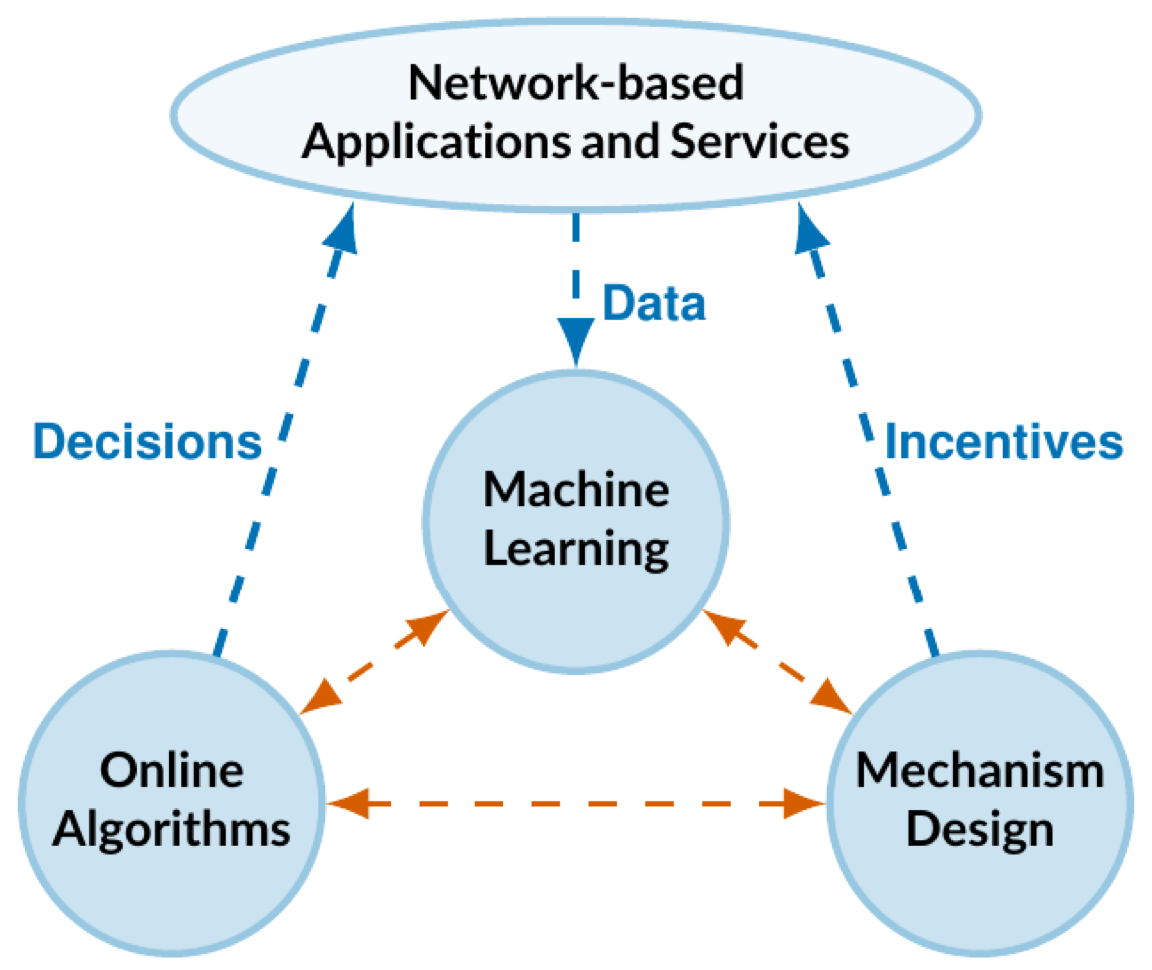
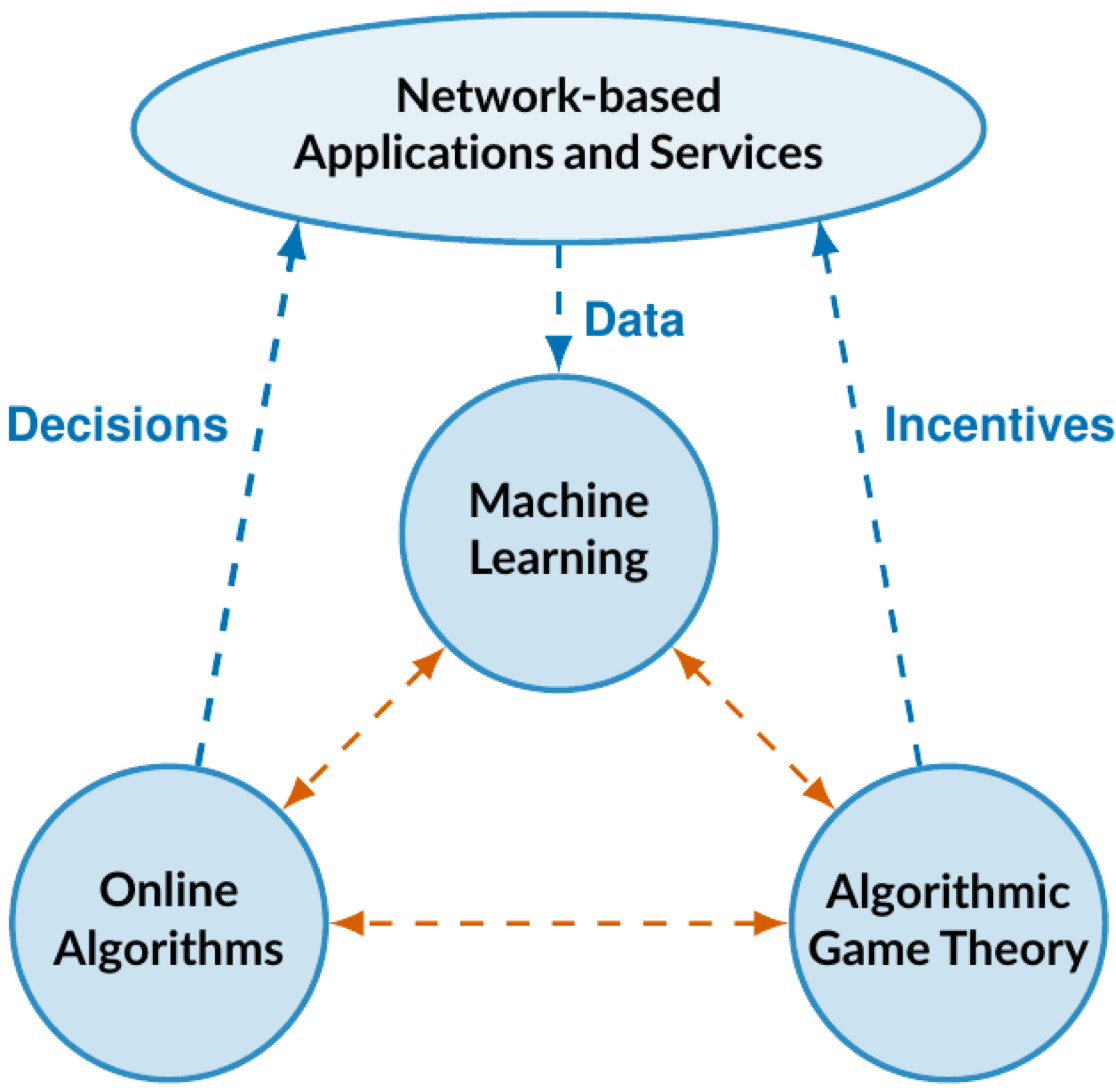
2222

diff --git a/content/research.md b/content/research.md
@@ -5,6 +5,8 @@ description: This is the abstract
 
 <a id="research_overview"></a>
 
+<img src="/img/overview.png" style="max-width:33%; min-width:330px; float: right" alt="overview"/>
+
 My research lies in the field of economics and computation of networked systems. The central theme of my research is driven by the following two intriguing challenges in the development of network-based applications and services in communication and computation. First, in any system, a good decision, whether that be defined as an algorithm for resource allocation in the clouds, a strategy for traffic routing in the Internet, or a policy for electricity distribution in power grids, are often computed by solving some explicit or implicit optimization problems with incomplete knowledge of the future. Thus,  making efficient online decisions under uncertainty is, in many cases, not just an advantage, but a necessity. Second, and often more difficult, the performance of a system (e.g., revenue or welfare) often depends on a collective behavior of multiple stakeholders/agents with divergent or even competing interests (and thus, not directly controllable by the system). As a result, we must design appropriate incentives to encourage agent interactions towards a desired direction so that the  decisions can be implemented with a guaranteed efficiency and rationality. 
 
 To tackle these two challenges, my research focuses both on developing analytical techniques in [**online algorithms**](/research/#online_algorithms), [**algorithmic game theory**](/research/#mechanism_design), and [**machine learning**](/research/#machine_learning), and applying these analytical techniques in application domains such as [**cloud computing**](/research/#computing), [**communication networks**](/research/#networking), and [**smart grid**](/research/#energy). For more details, please see my research description below by topics. 
